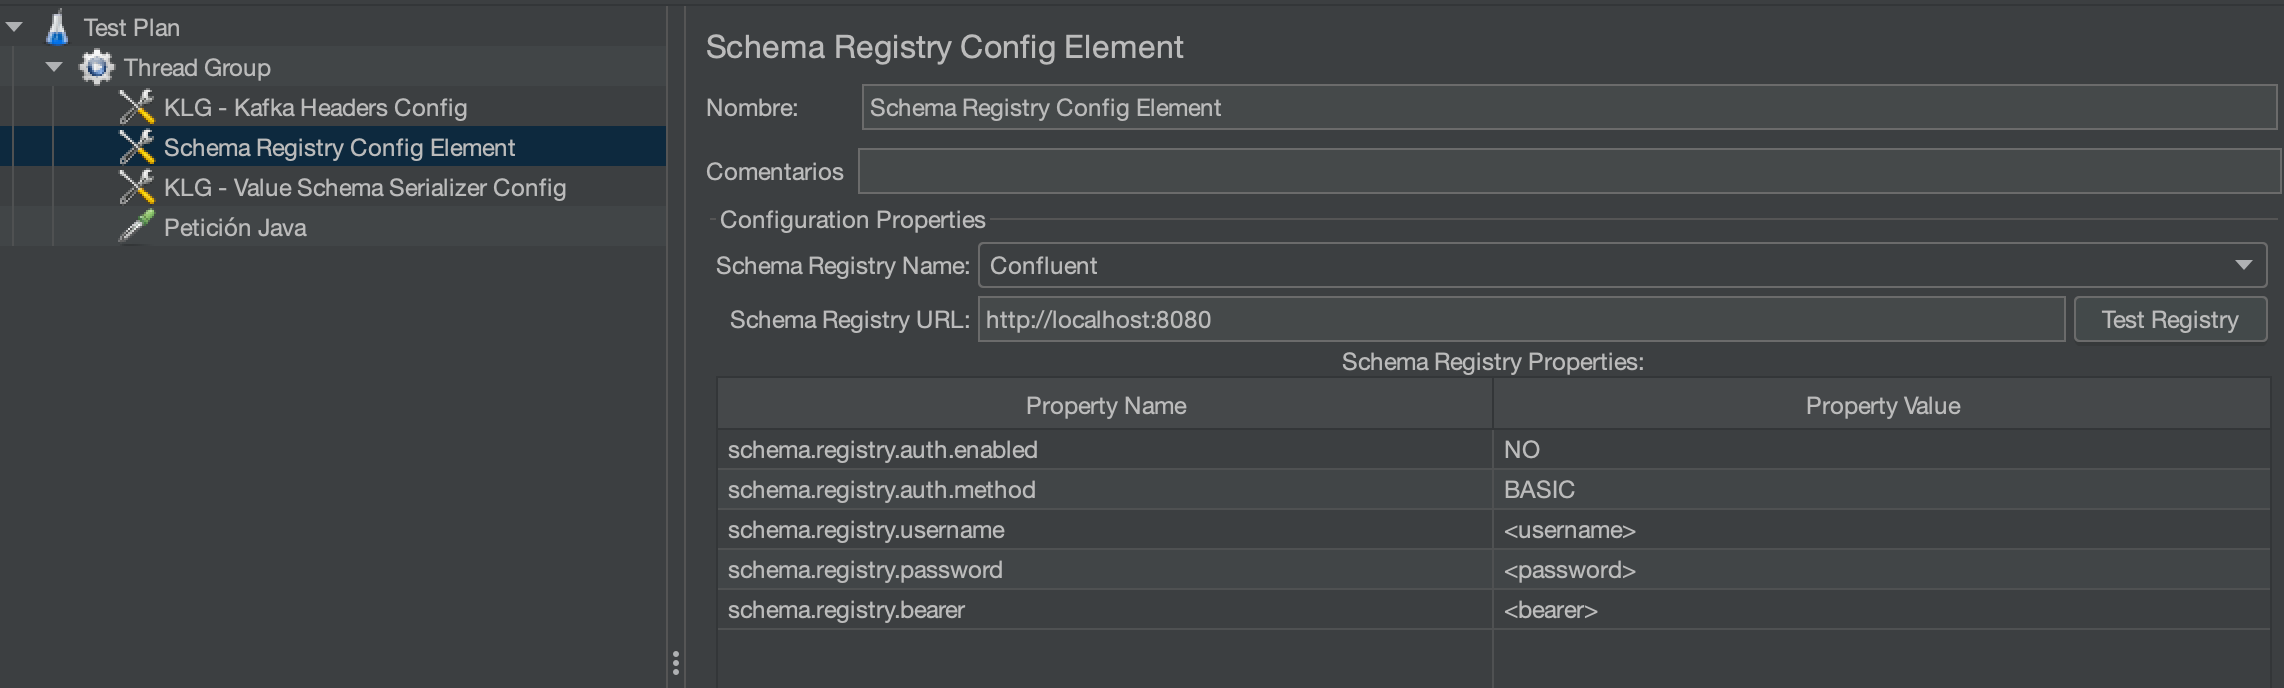
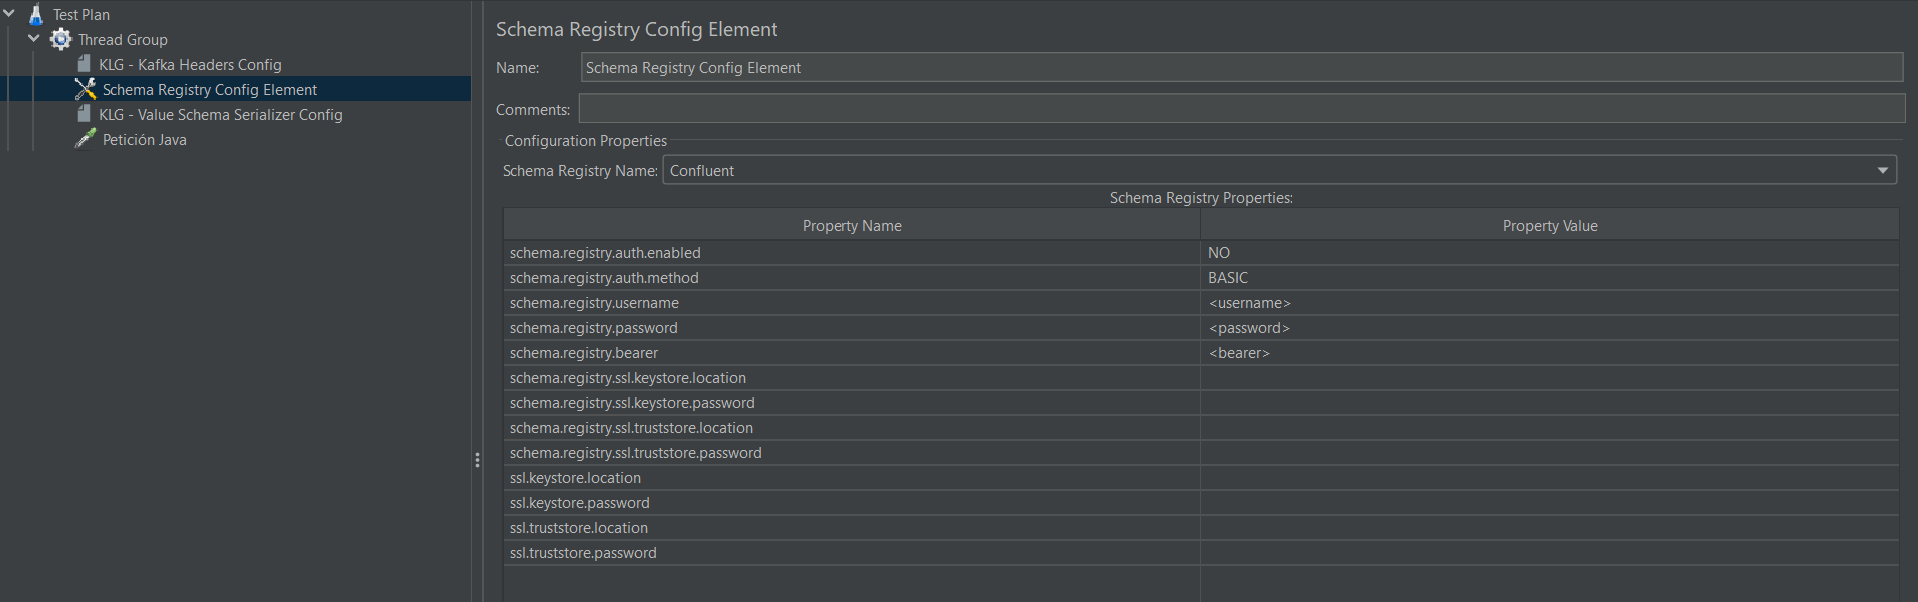
419 pkix path building failed (#427)
* Adding properties required for SSL authentication, with empty values by default

* Checkstyle fixes.

* Updating related documentation.

diff --git a/src/main/java/com/sngular/kloadgen/config/schemaregistry/DefaultPropertiesHelper.java b/src/main/java/com/sngular/kloadgen/config/schemaregistry/DefaultPropertiesHelper.java
@@ -22,8 +22,16 @@ class DefaultPropertiesHelper {
       PropertyMapping.builder().propertyName(SchemaRegistryKeyHelper.SCHEMA_REGISTRY_USERNAME_KEY).propertyValue(SchemaRegistryKeyHelper.SCHEMA_REGISTRY_USERNAME_DEFAULT).build(),
       PropertyMapping.builder().propertyName(SchemaRegistryKeyHelper.SCHEMA_REGISTRY_PASSWORD_KEY).propertyValue(SchemaRegistryKeyHelper.SCHEMA_REGISTRY_PASSWORD_DEFAULT).build(),
       PropertyMapping.builder().propertyName(SchemaRegistryKeyHelper.SCHEMA_REGISTRY_AUTH_BEARER_KEY).propertyValue(SchemaRegistryKeyHelper.SCHEMA_REGISTRY_AUTH_BEARER_DEFAULT)
-                     .build()));
-
+                     .build(),
+      PropertyMapping.builder().propertyName(SchemaRegistryKeyHelper.SCHEMA_REGISTRY_SSL_KEYSTORE_LOCATION_KEY).propertyValue("").build(),
+      PropertyMapping.builder().propertyName(SchemaRegistryKeyHelper.SCHEMA_REGISTRY_SSL_KEYSTORE_PASSWORD_KEY).propertyValue("").build(),
+      PropertyMapping.builder().propertyName(SchemaRegistryKeyHelper.SCHEMA_REGISTRY_SSL_TRUSTSTORE_LOCATION_KEY).propertyValue("").build(),
+      PropertyMapping.builder().propertyName(SchemaRegistryKeyHelper.SCHEMA_REGISTRY_SSL_TRUSTSTORE_PASSWORD_KEY).propertyValue("").build(),
+      PropertyMapping.builder().propertyName(SchemaRegistryKeyHelper.SSL_KEYSTORE_LOCATION_KEY).propertyValue("").build(),
+      PropertyMapping.builder().propertyName(SchemaRegistryKeyHelper.SSL_KEYSTORE_PASSWORD_KEY).propertyValue("").build(),
+      PropertyMapping.builder().propertyName(SchemaRegistryKeyHelper.SSL_TRUSTSTORE_LOCATION_KEY).propertyValue("").build(),
+      PropertyMapping.builder().propertyName(SchemaRegistryKeyHelper.SSL_TRUSTSTORE_PASSWORD_KEY).propertyValue("").build()
+  ));
   private DefaultPropertiesHelper() {
   }
 

diff --git a/src/main/java/com/sngular/kloadgen/util/SchemaRegistryKeyHelper.java b/src/main/java/com/sngular/kloadgen/util/SchemaRegistryKeyHelper.java
@@ -40,6 +40,8 @@ public final class SchemaRegistryKeyHelper {
 
   public static final String SCHEMA_REGISTRY_AUTH_BEARER_TYPE = "BEARER";
 
+  public static final String SCHEMA_REGISTRY_AUTH_SSL_TYPE = "SSL";
+
   public static final String SCHEMA_REGISTRY_AUTH_BEARER_DEFAULT = "<bearer>";
 
   public static final String SCHEMA_REGISTRY_SUBJECTS = "schema.registry.subjects";
@@ -49,6 +51,22 @@ public final class SchemaRegistryKeyHelper {
   public static final String SCHEMA_REGISTRY_AUTH_FLAG = "schema.registry.auth.enabled";
 
   public static final String ENABLE_AUTO_SCHEMA_REGISTRATION_CONFIG = "auto.register.schemas";
+
+  public static final String SCHEMA_REGISTRY_SSL_KEYSTORE_LOCATION_KEY = "schema.registry.ssl.keystore.location";
+
+  public static final String SCHEMA_REGISTRY_SSL_KEYSTORE_PASSWORD_KEY = "schema.registry.ssl.keystore.password";
+
+  public static final String SCHEMA_REGISTRY_SSL_TRUSTSTORE_LOCATION_KEY = "schema.registry.ssl.truststore.location";
+
+  public static final String SCHEMA_REGISTRY_SSL_TRUSTSTORE_PASSWORD_KEY = "schema.registry.ssl.truststore.password";
+
+  public static final String SSL_KEYSTORE_LOCATION_KEY = "ssl.keystore.location";
+
+  public static final String SSL_KEYSTORE_PASSWORD_KEY = "ssl.keystore.password";
+
+  public static final String SSL_TRUSTSTORE_LOCATION_KEY = "ssl.truststore.location";
+
+  public static final String SSL_TRUSTSTORE_PASSWORD_KEY = "ssl.truststore.password";
 
   private SchemaRegistryKeyHelper() {
   }

diff --git a/src/main/java/com/sngular/kloadgen/config/schemaregistry/SchemaRegistryConfigElement.java b/src/main/java/com/sngular/kloadgen/config/schemaregistry/SchemaRegistryConfigElement.java
@@ -73,6 +73,9 @@ public class SchemaRegistryConfigElement extends ConfigTestElement implements Te
         jMeterVariables.put(SchemaRegistryKeyHelper.SCHEMA_REGISTRY_AUTH_KEY, SchemaRegistryKeyHelper.SCHEMA_REGISTRY_AUTH_BEARER_TYPE);
         jMeterVariables.put(SchemaRegistryClientConfig.BEARER_AUTH_CREDENTIALS_SOURCE, "STATIC_TOKEN");
         jMeterVariables.put(SchemaRegistryClientConfig.BEARER_AUTH_TOKEN_CONFIG, schemaProperties.get(SchemaRegistryKeyHelper.SCHEMA_REGISTRY_AUTH_BEARER_KEY));
+      } else if (SchemaRegistryKeyHelper.SCHEMA_REGISTRY_AUTH_SSL_TYPE.equalsIgnoreCase(schemaProperties.get(SchemaRegistryKeyHelper.SCHEMA_REGISTRY_AUTH_KEY))) {
+        jMeterVariables.put(SchemaRegistryKeyHelper.SCHEMA_REGISTRY_AUTH_KEY, SchemaRegistryKeyHelper.SCHEMA_REGISTRY_AUTH_SSL_TYPE);
+
       }
     }
   }

diff --git a/docs/schema-registry.md b/docs/schema-registry.md
@@ -15,6 +15,14 @@ A list of the properties explained here:
 * `schema.registry.username` Username
 * `schema.registry.password` Password
 * `schema.registry.bearer`	Token for SASL/OAUTHBEARER
+* `schema.registry.keystore.location` The absolute path of the keystore file for the schema registry
+* `schema.registry.keystore.password` The password that protects the keystore file for the schema registry
+* `schema.registry.truststore.location` The absolute path of the truststore file for the schema registry
+* `schema.registry.truststore.password` The password that protects the truststore file for the schema registry
+* `ssl.keystore.location` The absolute path of the keystore file for the connection against the schema registry
+* `ssl.keystore.password` The password that protects the keystore file for the connection against the schema registry
+* `ssl.truststore.location` The absolute path of the truststore file for the connection against the schema registry
+* `ssl.truststore.password` The password that protects the truststore file for the connection against the schema registry
 
 ## Some Recommendations
 
